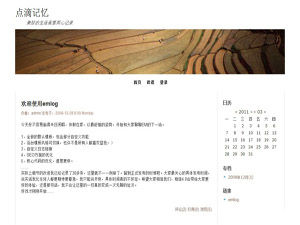
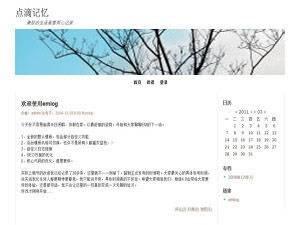
#4.1.0 dev 优化默认模板

Changed region(s): [[0.03, 0.1244, 0.96, 0.3422]]

diff --git a/src/install.php b/src/install.php
@@ -323,7 +323,7 @@ INSERT INTO {$db_prefix}options (option_name, option_value) VALUES ('istrackback
 INSERT INTO {$db_prefix}options (option_name, option_value) VALUES ('isxmlrpcenable','n');
 INSERT INTO {$db_prefix}options (option_name, option_value) VALUES ('istwitter','y');
 INSERT INTO {$db_prefix}options (option_name, option_value) VALUES ('twnavi','碎语');
-INSERT INTO {$db_prefix}options (option_name, option_value) VALUES ('topimg','content/templates/default/images/top/terrace.jpg');
+INSERT INTO {$db_prefix}options (option_name, option_value) VALUES ('topimg','content/templates/default/images/top/default.jpg');
 INSERT INTO {$db_prefix}options (option_name, option_value) VALUES ('custom_topimgs','a:0:{}');
 INSERT INTO {$db_prefix}options (option_name, option_value) VALUES ('timezone','8');
 INSERT INTO {$db_prefix}options (option_name, option_value) VALUES ('active_plugins','a:1:{i:0;s:13:\"tips/tips.php\";}');
